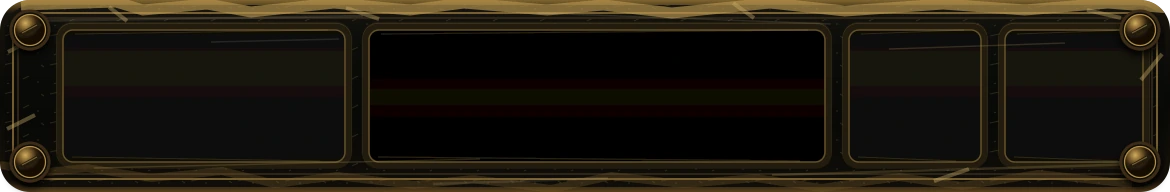
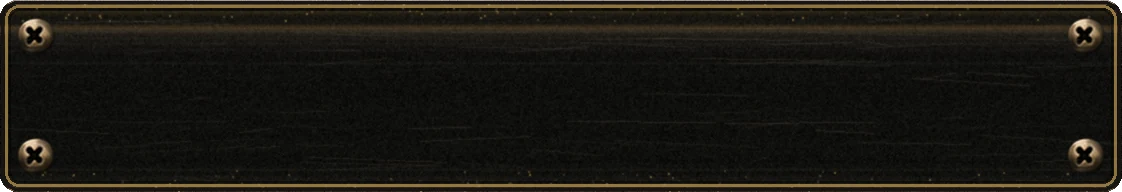
Rail: draw the wells and dividers in code, plate becomes a plain underlay

diff --git a/nav.js b/nav.js
@@ -172,7 +172,7 @@
          for the tallest case or the last row of a page hides under the bar
          the moment you make an account. */
       body {
-        padding-bottom: calc(186px + env(safe-area-inset-bottom, 0px));
+        padding-bottom: calc(186px + var(--rm-rail-extra, 0px) + env(safe-area-inset-bottom, 0px));
       }
 
       /* THE BAR BRINGS ITS OWN TYPE.
@@ -287,25 +287,47 @@
          The approved mockup uses a thin condensed all-caps face for every
          word on the plate -- SOBER SINCE, the date, DAYS, SHARE, ACCOUNT.
          That is Oswald, and the app already ships the 600 cut for its
-         headlines; this is the 300. It is self-hosted like the rest, so the
-         rail still draws with no network. */
+         headlines; this is the 500. Measured off the mockup, the strokes on
+         the plate are about a sixth of the cap height -- Medium, not Light.
+         It is self-hosted like the rest, so the rail draws with no network. */
       @font-face{
         font-family:"RM Rail";
-        src:url("/assets/fonts/oswald-300.woff2") format("woff2");
-        font-weight:300;font-style:normal;font-display:swap;
+        src:url("/assets/fonts/oswald-500.woff2") format("woff2");
+        font-weight:500;font-style:normal;font-display:swap;
       }
 
-      .rm-rail {
+      /* ONE PICTURE, DRAWN AT ONE SIZE, SCALED AS A WHOLE.
+
+         The rail is laid out at exactly 374 x 64 -- the size the artwork was
+         drawn for -- and then the entire thing, plate and lettering and
+         tiles together, is scaled by one number to fit whatever phone it
+         landed on. Nothing inside is ever resized on its own, so the picture
+         cannot stretch and the wells cannot drift off the art.
+
+         --rm-rail-s is that number, set from the real measured width just
+         below. 374 wide is an iPhone 15; a small Android comes out at 0.81
+         and a Pro Max at 1.11, and the proportions are identical in all
+         three. */
+      .rm-rail-fit{
         position:relative;
-        height:64px;
+        width:100%;
+        height:calc(64px * var(--rm-rail-s, 1));
         margin:0 0 7px;
+        overflow:hidden;
+      }
+      .rm-rail {
+        position:absolute;top:0;left:var(--rm-rail-x, 0px);
+        width:374px;
+        height:64px;
+        transform-origin:top left;
+        transform:scale(var(--rm-rail-s, 1));
         color:#eee4cf;
         background-image:url("/assets/rail/rail-plate.webp");
         background-size:100% 100%;
         background-repeat:no-repeat;
         font-family:"RM Rail",Oswald,"Avenir Next Condensed","Roboto Condensed",
                     "Arial Narrow",system-ui,sans-serif;
-        font-weight:300;
+        font-weight:500;
         /* the plate carries its own edge, so nothing is drawn around it */
       }
       .rm-rail button,.rm-rail a{
@@ -321,9 +343,12 @@
         position:absolute;top:10px;height:44px;
         display:flex;align-items:center;
       }
+      /* Both lines are centered in the well, the way they are in the
+         mockup -- they are nearly the same width, so centering reads as one
+         stacked block rather than two left-hung lines. */
       .rm-rail-date {left:5.385%;width:24.03%;
-        flex-direction:column;justify-content:center;align-items:flex-start;
-        gap:3px;padding-left:7px;cursor:pointer;text-align:left}
+        flex-direction:column;justify-content:center;align-items:center;
+        gap:3px;padding:0 4px;cursor:pointer;text-align:center}
       .rm-rail-count{left:31.538%;width:38.9%;justify-content:center;gap:1px}
       .rm-rail-act.rm-share  {left:72.564%;width:11.21%}
       .rm-rail-act.rm-account{left:85.897%;width:11.72%}
@@ -331,13 +356,13 @@
       .rm-rail-date:active,.rm-rail-act:active{filter:brightness(1.35)}
 
       .rm-rail-date .k{
-        color:#d9ab4e;font-size:9.5px;line-height:1;font-weight:300;
+        color:#d9ab4e;font-size:9.5px;line-height:1;font-weight:500;
         letter-spacing:.11em;text-transform:uppercase;white-space:nowrap;
         text-shadow:0 1px 0 #000;
       }
       .rm-rail-date .v{
         max-width:100%;overflow:hidden;color:#f4ecdb;
-        font-size:12.5px;line-height:1;font-weight:300;letter-spacing:.055em;
+        font-size:12.5px;line-height:1;font-weight:500;letter-spacing:.045em;
         text-transform:uppercase;white-space:nowrap;text-overflow:clip;
         text-shadow:0 1px 0 #000;
       }
@@ -354,8 +379,8 @@
       .rm-rail-count.d6 .rm-rail-tile{width:16px;height:21px}
 
       .rm-rail-days{
-        margin-left:8px;color:#efe3c6;font-size:12.5px;font-weight:300;
-        letter-spacing:.09em;line-height:1;flex:none;text-transform:uppercase;
+        margin-left:8px;color:#efe3c6;font-size:12.5px;font-weight:500;
+        letter-spacing:.07em;line-height:1;flex:none;text-transform:uppercase;
         text-shadow:0 1px 0 #000;
       }
       .rm-rail-count.d5 .rm-rail-days{margin-left:7px;font-size:11.5px}
@@ -363,7 +388,7 @@
 
       .rm-rail-act{
         flex-direction:column;justify-content:center;gap:3px;
-        cursor:pointer;font-size:9px;font-weight:300;letter-spacing:.08em;
+        cursor:pointer;font-size:9px;font-weight:500;letter-spacing:.055em;
         text-transform:uppercase;white-space:nowrap;
         text-shadow:0 1px 0 #000;
       }
@@ -373,18 +398,10 @@
          painted into the plate simply stays empty and the date block asks. */
       .rm-rail.no-date .rm-rail-count{display:none}
 
-      @media (max-width:359px){
-        .rm-rail-act span{position:absolute;width:1px;height:1px;overflow:hidden;clip-path:inset(50%)}
-        .rm-rail-act img{width:21px;height:21px}
-        .rm-rail-tile{width:23px;height:31px}
-        .rm-rail-count.d4 .rm-rail-tile{width:20px;height:27px}
-        .rm-rail-count.d5 .rm-rail-tile{width:16px;height:21px}
-        .rm-rail-count.d6 .rm-rail-tile{width:14px;height:19px}
-        .rm-rail-days{margin-left:6px;font-size:11px}
-        .rm-rail-count.d5 .rm-rail-days{font-size:10px}
-        .rm-rail-count.d6 .rm-rail-days{font-size:9px}
-        .rm-rail-date .v{font-size:11px;letter-spacing:.03em}
-      }
+      /* No small-screen overrides: the whole rail is scaled by --rm-rail-s,
+         so a 320px phone gets the same picture at 81%, not a different
+         layout. The only thing that still changes inside the rail is the
+         tile size, and that is driven by how many digits there are. */
 
       .rm-nav-links {
         flex: 1 1 auto;
@@ -798,7 +815,7 @@
 
       @media (max-width: 900px) {
         body {
-          padding-bottom: calc(186px + env(safe-area-inset-bottom, 0px));
+          padding-bottom: calc(186px + var(--rm-rail-extra, 0px) + env(safe-area-inset-bottom, 0px));
         }
 
         #rmAppBar {
@@ -818,7 +835,7 @@
 
       @media (max-width: 640px) {
         body {
-          padding-bottom: calc(186px + env(safe-area-inset-bottom, 0px));
+          padding-bottom: calc(186px + var(--rm-rail-extra, 0px) + env(safe-area-inset-bottom, 0px));
         }
 
         #rm-bottom-nav .rm-nav-wrap {
@@ -1273,9 +1290,45 @@
     wrapper.appendChild(greet);
   }
 
-  wrapper.appendChild(soberPanel);
+  /* THE RAIL GOES IN A BOX THAT MEASURES ITSELF.
+
+     The rail itself is always 374 x 64. This box is whatever the phone
+     gives it, and the ratio between the two is the scale factor for the
+     whole picture. Watched with a ResizeObserver so a rotation or a
+     split-screen resize is picked up the same as a fresh load; browsers
+     without one fall back to the resize event, which covers both. */
+  const railFit = document.createElement("div");
+  railFit.className = "rm-rail-fit";
+  railFit.appendChild(soberPanel);
+
+  wrapper.appendChild(railFit);
   wrapper.appendChild(appBar);
   mount.replaceChildren(wrapper);
+
+  const RAIL_W = 374, RAIL_H = 64;
+  /* On a phone the rail fills the width. On a laptop that same sum would
+     make it 185px tall, which is a billboard, so the scale stops a little
+     past phone size and the rail centers in whatever is left. */
+  const RAIL_MAX_S = 1.15;
+  function fitRail() {
+    const w = railFit.getBoundingClientRect().width;
+    if (!w) return;
+    const scale = Math.min(w / RAIL_W, RAIL_MAX_S);
+    const root = document.documentElement.style;
+    root.setProperty("--rm-rail-s", String(scale));
+    root.setProperty("--rm-rail-x", ((w - RAIL_W * scale) / 2).toFixed(2) + "px");
+    /* The page's bottom padding was written for a 64px rail. Hand it the
+       difference so the last line of a reading never ends up under the bar
+       on a big phone, and no dead space opens up on a small one. */
+    root.setProperty("--rm-rail-extra", (RAIL_H * (scale - 1)).toFixed(2) + "px");
+  }
+  fitRail();
+  if (typeof ResizeObserver === "function") {
+    new ResizeObserver(fitRail).observe(railFit);
+  } else {
+    window.addEventListener("resize", fitRail);
+    window.addEventListener("orientationchange", fitRail);
+  }
 
   const setBtn = soberPanel.querySelector("#rmSetSoberDateBtn");
   if (setBtn) {

diff --git a/topbar.js b/topbar.js
@@ -16,7 +16,7 @@
      reloads the page past the cache, which is the other half of the same
      problem.
      ==================================================================== */
-  const RM_VERSION = "v426";
+  const RM_VERSION = "v428";
 
   /* -------------------------
      Google Analytics (GA4)
